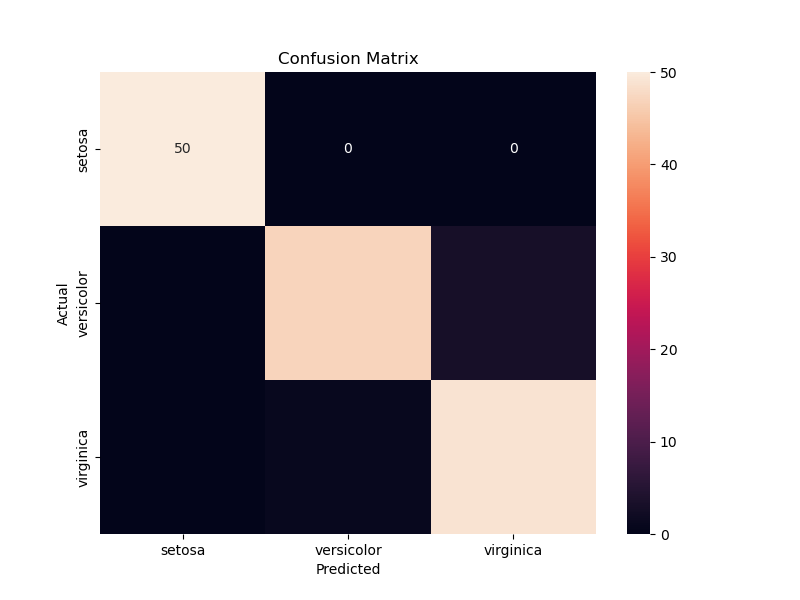
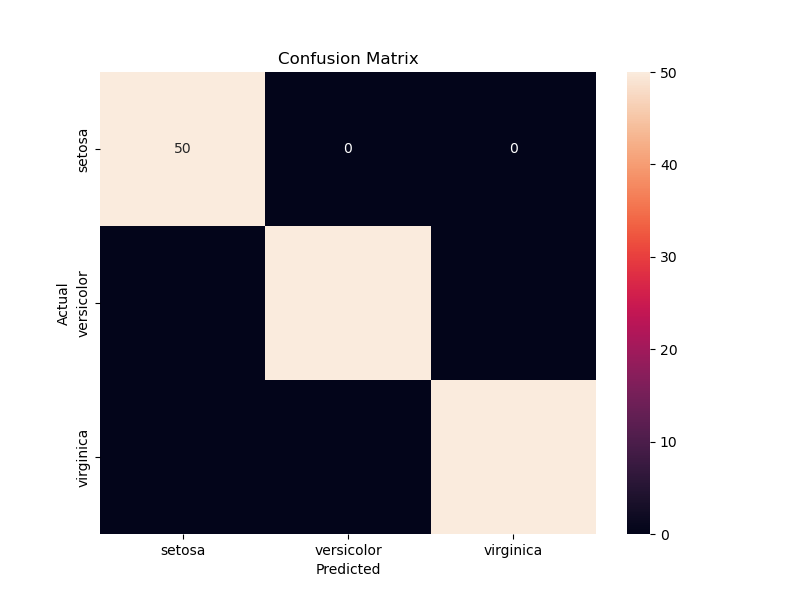
ran random forest on data

Changed region(s): [[0.3125, 0.36, 0.5625, 0.66]]

diff --git a/train.py b/train.py
@@ -1,5 +1,5 @@
 import pandas as pd
-from sklearn.linear_model import LogisticRegression
+from sklearn.ensemble import RandomForestClassifier
 from sklearn.metrics import accuracy_score, confusion_matrix
 import json
 import seaborn as sns
@@ -11,7 +11,7 @@ X = df.iloc[:, :-1]
 y = df.iloc[:, -1]
 
 # Train model (ensure you change this for other branches)
-model = LogisticRegression(random_state=42)
+model = RandomForestClassifier(random_state=42)
 model.fit(X, y)
 preds = model.predict(X)
 
